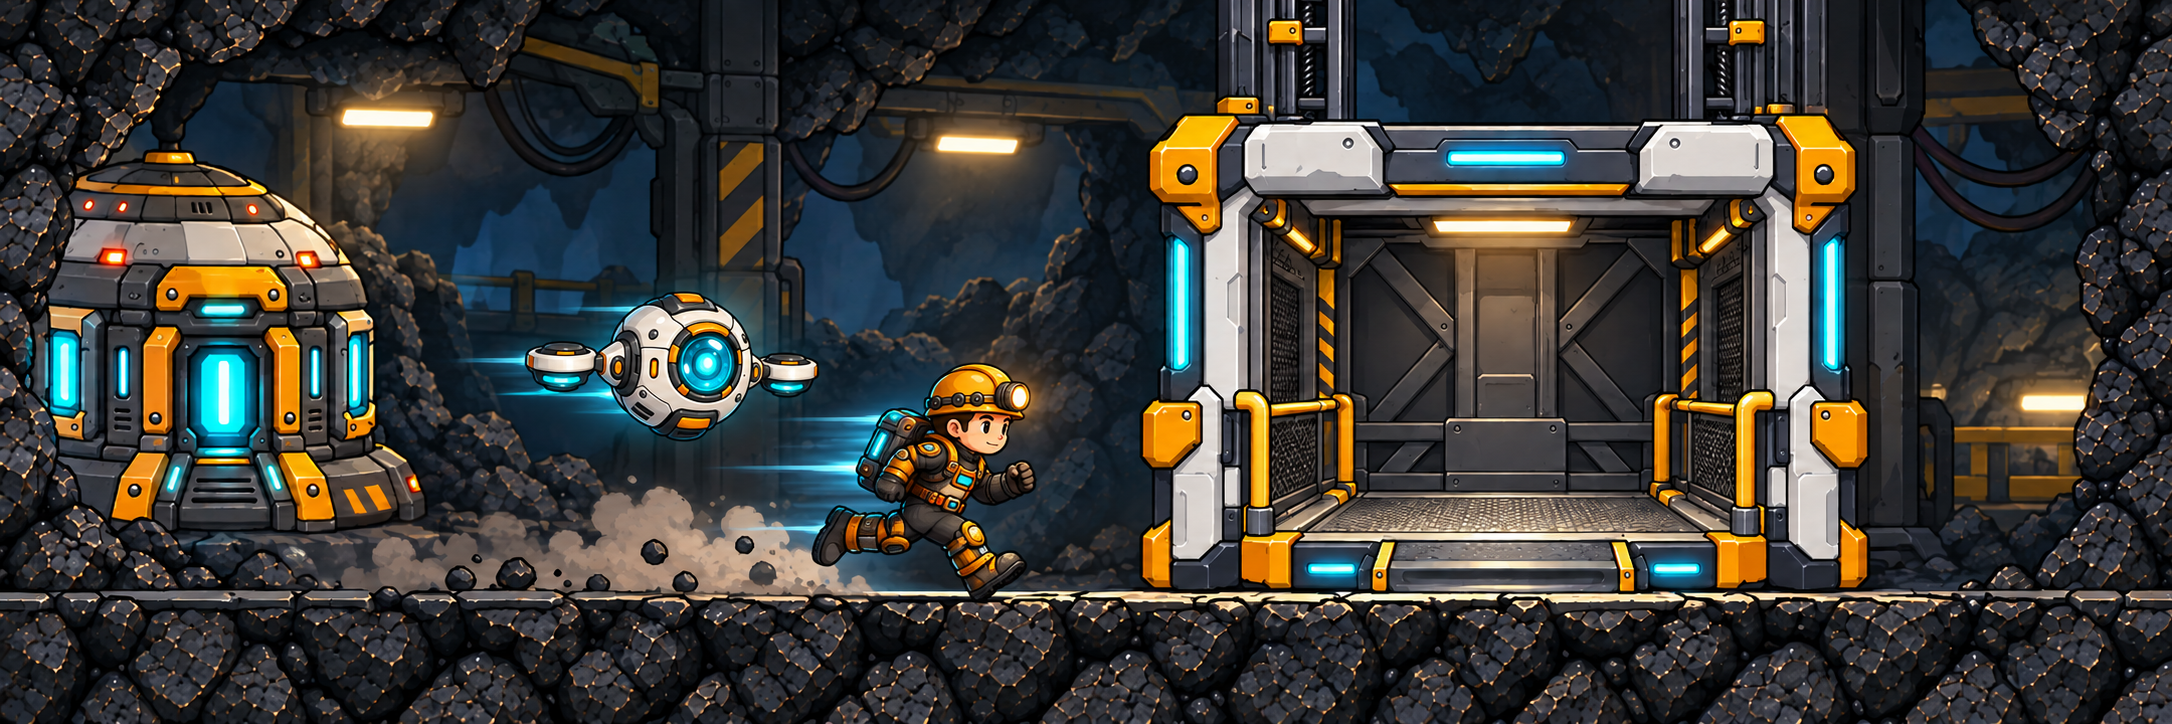
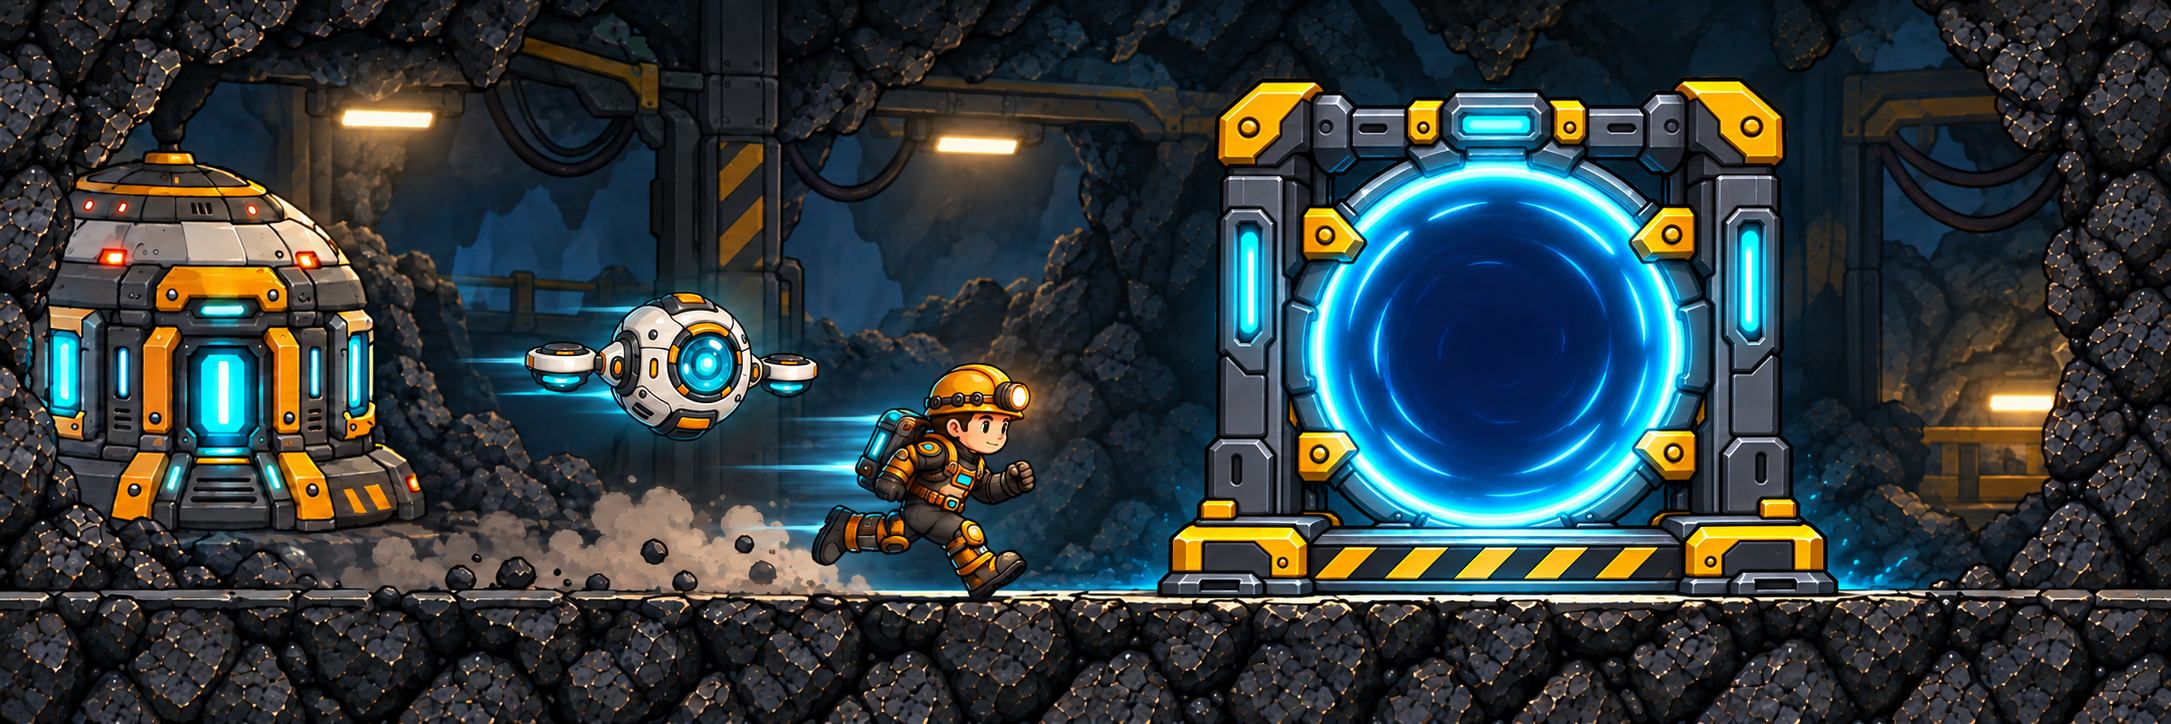
fix: 지상 지하 퀘스트 상세창에 컨셉 장면 표시

diff --git a/sub-terra/Assets/_Project/Tests/EditMode/App/Tutorial/PromptB107QuestUiTests.cs b/sub-terra/Assets/_Project/Tests/EditMode/App/Tutorial/PromptB107QuestUiTests.cs
@@ -68,7 +68,7 @@ namespace SubTerra.App.Tests.Tutorial
         [TestCase(DemoObjectiveIds.PurifyGasWithOutpost, "OutpostCore")]
         [TestCase(DemoObjectiveIds.SellAtSettlement, "Settlement")]
         [TestCase(DemoObjectiveIds.EmergencyEscapeReturn, "EmergencyEscapePortal")]
-        public void FacilityQuestImages_UseBuildingMenuArtwork(string id, string building)
+        public void Issue221_FacilityQuestImagesUseConceptScenes(string id, string building)
         {
             var root = new GameObject("FacilityQuestThumbnail", typeof(RectTransform));
             try
@@ -83,7 +83,9 @@ namespace SubTerra.App.Tests.Tutorial
                 var data = AssetDatabase.LoadAssetAtPath<SubTerra.App.Core.Data.BuildingData>(
                     "Assets/_Project/Data/Buildings/Building_" + building + (building == "EmergencyEscapePortal" ? ".asset" : "_Basic.asset"));
                 Assert.That(data, Is.Not.Null);
-                Assert.That(image.sprite, Is.SameAs(data.Icon));
+                Assert.That(AssetDatabase.GetAssetPath(image.sprite), Is.EqualTo(PromptB1072QuestThumbnailBuilder.PathFor(id)));
+                Assert.That(image.sprite, Is.Not.SameAs(data.Icon), "상세창에 건설 메뉴의 단독 시설 아이콘을 표시하면 안 된다.");
+                Assert.That(image.sprite.rect.width / image.sprite.rect.height, Is.EqualTo(3f).Within(0.01f));
                 Assert.That(image.preserveAspect, Is.True);
                 Assert.That(image.raycastTarget, Is.False);
             }
@@ -91,7 +93,25 @@ namespace SubTerra.App.Tests.Tutorial
         }
 
         [Test]
-        public void SavedScene_FacilityQuestEntriesMatchBuildingMenuArtwork()
+        public void Issue221_SurfaceQuestEntriesUseConceptScenes()
+        {
+            var prefab = AssetDatabase.LoadAssetAtPath<GameObject>(PromptB117SurfaceBaseBuilder.PrefabPath);
+            Assert.That(prefab, Is.Not.Null);
+            var view = prefab.GetComponentInChildren<QuestThumbnailView>(true);
+            Assert.That(view, Is.Not.Null);
+            var entries = new SerializedObject(view).FindProperty("entries");
+            Assert.That(entries.arraySize, Is.EqualTo(18));
+            for (int i = 0; i < entries.arraySize; i++)
+            {
+                var entry = entries.GetArrayElementAtIndex(i);
+                var id = entry.FindPropertyRelative("objectiveId").stringValue;
+                Assert.That(AssetDatabase.GetAssetPath(entry.FindPropertyRelative("primary").objectReferenceValue),
+                    Is.EqualTo(PromptB1072QuestThumbnailBuilder.PathFor(id)), id);
+            }
+        }
+
+        [Test]
+        public void Issue221_SavedSceneQuestEntriesUseConceptScenes()
         {
             var scene = SceneManager.GetSceneByPath(PromptB107QuestUiBuilder.IntegrationScenePath);
             bool closeAfter = !scene.IsValid() || !scene.isLoaded;
@@ -110,12 +130,13 @@ namespace SubTerra.App.Tests.Tutorial
                 for (int i = 0; i < entries.arraySize; i++)
                 {
                     var entry = entries.GetArrayElementAtIndex(i);
-                    var data = PromptB1072QuestThumbnailBuilder.FacilityFor(entry.FindPropertyRelative("objectiveId").stringValue);
-                    if (data == null) continue;
-                    Assert.That(entry.FindPropertyRelative("primary").objectReferenceValue, Is.SameAs(data.Icon));
+                    var id = entry.FindPropertyRelative("objectiveId").stringValue;
+                    var sprite = entry.FindPropertyRelative("primary").objectReferenceValue as Sprite;
+                    Assert.That(sprite, Is.Not.Null, id);
+                    Assert.That(AssetDatabase.GetAssetPath(sprite), Is.EqualTo(PromptB1072QuestThumbnailBuilder.PathFor(id)), id);
                     checkedFacilities++;
                 }
-                Assert.That(checkedFacilities, Is.EqualTo(10));
+                Assert.That(checkedFacilities, Is.EqualTo(18));
             }
             finally { if (closeAfter) EditorSceneManager.CloseScene(scene, true); }
         }
@@ -329,14 +350,8 @@ namespace SubTerra.App.Tests.Tutorial
                     foreach (var id in DemoObjectiveIds.Ordered)
                     {
                         thumbnailView.Show(id, true);
-                        var questFacility = PromptB1072QuestThumbnailBuilder.FacilityFor(id);
-                        if (questFacility != null)
-                            Assert.That(image.sprite, Is.SameAs(questFacility.Icon));
-                        else
-                        {
-                            Assert.That(AssetDatabase.GetAssetPath(image.sprite), Is.EqualTo(PromptB1072QuestThumbnailBuilder.PathFor(id)));
-                            Assert.That(image.sprite.rect.width / image.sprite.rect.height, Is.GreaterThan(2.5f));
-                        }
+                        Assert.That(AssetDatabase.GetAssetPath(image.sprite), Is.EqualTo(PromptB1072QuestThumbnailBuilder.PathFor(id)));
+                        Assert.That(image.sprite.rect.width / image.sprite.rect.height, Is.GreaterThan(2.5f));
                         Assert.That(image.rectTransform.anchorMin, Is.EqualTo(Vector2.zero));
                         Assert.That(image.rectTransform.anchorMax, Is.EqualTo(Vector2.one));
                         Assert.That(image.preserveAspect, Is.True);

diff --git a/sub-terra/Assets/_Project/Editor/DataValidation/PromptB1072QuestThumbnailBuilder.cs b/sub-terra/Assets/_Project/Editor/DataValidation/PromptB1072QuestThumbnailBuilder.cs
@@ -20,11 +20,38 @@ namespace SubTerra.App.Editor.DataValidation
         [MenuItem("SubTerra/UI/Apply Prompt-B 107-2 Quest Thumbnails")]
         public static void Apply()
         {
+            ApplyToScene(true);
+            ApplySurfaceReferences();
+        }
+
+        [MenuItem("SubTerra/UI/Refresh Quest Thumbnail References Only")]
+        public static void ApplyReferences()
+        {
+            ApplyToScene(false);
+            ApplySurfaceReferences();
+        }
+
+        public static void ApplySurfaceReferences()
+        {
+            if (EditorApplication.isPlaying) throw new InvalidOperationException("Stop Play Mode first.");
+            var panel = PrefabUtility.LoadPrefabContents(PromptB117SurfaceBaseBuilder.PrefabPath);
+            try
+            {
+                var view = panel.GetComponentInChildren<QuestThumbnailView>(true);
+                if (view == null) throw new InvalidOperationException("Surface QuestThumbnailView missing.");
+                Configure(view);
+                PrefabUtility.SaveAsPrefabAsset(panel, PromptB117SurfaceBaseBuilder.PrefabPath);
+            }
+            finally { PrefabUtility.UnloadPrefabContents(panel); }
+        }
+
+        private static void ApplyToScene(bool importTextures)
+        {
             if (EditorApplication.isPlaying) throw new InvalidOperationException("Stop Play Mode first.");
             var scene = SceneManager.GetSceneByPath(PromptB107QuestUiBuilder.IntegrationScenePath);
             if (scene.IsValid() && scene.isLoaded && scene.isDirty)
                 throw new InvalidOperationException("Integration 씬에 저장되지 않은 변경이 있습니다.");
-            Import();
+            if (importTextures) Import();
             bool closeAfter = !scene.IsValid() || !scene.isLoaded;
             if (closeAfter)
                 scene = EditorSceneManager.OpenScene(PromptB107QuestUiBuilder.IntegrationScenePath, OpenSceneMode.Additive);
@@ -55,8 +82,8 @@ namespace SubTerra.App.Editor.DataValidation
             for (int i = 0; i < DemoObjectiveIds.Ordered.Length; i++)
             {
                 var id = DemoObjectiveIds.Ordered[i];
-                var facility = FacilityFor(id);
-                var sprite = facility != null ? facility.Icon : AssetDatabase.LoadAssetAtPath<Sprite>(PathFor(id));
+                // 건설 메뉴 아이콘은 투명 배경의 시설 그림이다. 상세창은 배경이 있는 전용 장면을 쓴다.
+                var sprite = AssetDatabase.LoadAssetAtPath<Sprite>(PathFor(id));
                 if (sprite == null) throw new InvalidOperationException("Thumbnail missing: " + id);
                 var entry = entries.GetArrayElementAtIndex(i);
                 entry.FindPropertyRelative("objectiveId").stringValue = id;

diff --git a/work_process/issue-221-quest-thumbnail-result-20261021.md b/work_process/issue-221-quest-thumbnail-result-20261021.md
@@ -1,0 +1,35 @@
+# #221 퀘스트 상세 썸네일 — 2026-10-21
+
+## 원인과 수정
+
+- 이슈: https://github.com/Nobamb/sub-terra/issues/221
+- 퀘스트 7~13, 16~18에 배경이 있는 전용 장면 그림이 이미 존재하지만, PromptB1072QuestThumbnailBuilder.Configure가 시설 퀘스트에는 BuildingData.Icon을 우선 연결하고 있었다. 투명 배경의 시설 아이콘이 검은 UI 배경 위에 단독으로 표시된 원인이다.
+- 18개 퀘스트 모두 Art/UI/Gameplay/Quest/Thumbnails/<목표 ID>.png를 연결한다. 대상 10개만 실제 씬과 지상 퀘스트 프리팹 참조가 달라지며, 나머지 8개는 같은 그림을 유지한다.
+- 긴급 탈출의 기존 장면은 엘리베이터를 보여 줬다. 현재 emergency_escape_portal_v1.png를 참조해 원형 청록 포탈로 이 한 장만 교체했다. 기존 광부·드론·전진기지·동굴 구도를 유지한 장면 그림이다. 나머지 9장은 기존 컨셉 그림을 활용한다.
+- 원본 PNG 경로와 .meta GUID를 유지한다. 새 그림은 2171×724이며 기존 3:1 틀에서 preserveAspect로 표시한다. 프레임/여백/버튼/보상/퀘스트 판정은 바꾸지 않는다.
+- ApplyReferences Editor 메뉴를 추가해 이미지 임포트 설정이나 다른 UI를 다시 만들지 않고 지하 씬·지상 퀘스트 프리팹 참조만 갱신할 수 있다. 기존 Apply와 다른 시설 빌더에서도 같은 장면 그림 연결 규칙을 사용한다.
+
+## 환경·수정 파일
+
+- 저장소 C:/Users/jeone/sub-terra, Unity 프로젝트 C:/Users/jeone/sub-terra/sub-terra, Unity 6000.5.4f1, 검토용 브랜치 codex/nonvisual-review-20261021.
+- Assets/_Project/Editor/DataValidation/PromptB1072QuestThumbnailBuilder.cs
+- Assets/_Project/Scenes/App/Mine_Demo_Integration.unity — Editor 빌더로 생성한 썸네일 참조 10개만 변경. 저장 과정의 무관한 자동 직렬화 차이는 되돌렸다.
+- Assets/_Project/Prefabs/UI/SurfaceBasePanel.prefab — 복사된 지상 퀘스트 창에도 같은 증상이 있어 썸네일 참조만 갱신한다. 지상 본문/버튼/레이아웃을 다시 만들지 않는다.
+- Assets/_Project/Art/UI/Gameplay/Quest/Thumbnails/emergency_escape_return.png — 이미지 생성 도구로 기존 그림을 수정. .meta 유지.
+- Assets/_Project/Tests/EditMode/App/Tutorial/PromptB107QuestUiTests.cs — 기존 시설 아이콘 일치 검사를 전용 장면 그림 검사로 변경.
+- 이 기록. 앞선 #225의 로컬 수정 3개 파일은 별도로 보존한다.
+
+## 최소 검사·게시
+
+- 지하 빌더 ApplyReferences와 지상 ApplySurfaceReferences 모두 종료 코드 0. 씬과 지상 프리팹의 최종 변경은 각각 썸네일 참조 10개뿐이다. 대상 밖 씬·프리팹·폰트·ProjectSettings·패키지·이미지 .meta 변경 없음.
+- 대상 10개 그림을 파일로 확인했으며 동굴 배경이 있는 장면임을 확인했다. 실제 팝업 화면 렌더링 확인은 별도다.
+- EditMode 1차: 대상 10개 표시와 실제 지하 씬의 18개 연결, 3:1 비율·preserveAspect·raycastTarget=false 검사 11건 통과/실패 0, 5.39초. work_process/tools/issue221-quest-thumbnails-20261021/.
+- EditMode 2차: 지상 프리팹의 동일 18개 연결 검사 1건 통과/실패 0, 1.88초. work_process/tools/issue221-surface-thumbnails-20261021/. 통과한 11건은 반복하지 않았다. 총 12건 통과, 컴파일 오류 없음, diff 형식 검사 통과. 라이선스 서비스 404 환경 로그가 있었으나 검사와 종료는 정상 완료했다.
+- 사용자 저장 슬롯은 사용하지 않는다. 전체 Demo/Windows 빌드는 실행하지 않는다.
+- 아직 커밋·푸시·새 PR 없음. 게시 요청 시 #221 변경만 독립 PR로 분리하고 #225 수정은 기존 PR에 추가한다. 검토용 통합 브랜치 전체를 한 PR에 넣지 않는다.
+- 팀원 확인: 첫 Hub 프로젝트 → Bootstrap → 지상/탐사 → 퀘스트 상세 7~13·16~18에서 시설 아이콘 대신 배경 장면이 표시되는지, 특히 긴급 탈출이 엘리베이터가 아닌 원형 포탈인지 확인한다.
+
+## 이후
+
+- #223 정적 심층 썸네일·잠금 상태 표시가 다음 후보다. 해금 연출과 실제 Lv.2/3 탐사 확장은 이번 변경에 포함하지 않는다.
+- #211 지상 업그레이드는 재현 조건이 확보되지 않았으므로 추측 수정하지 않는다.
